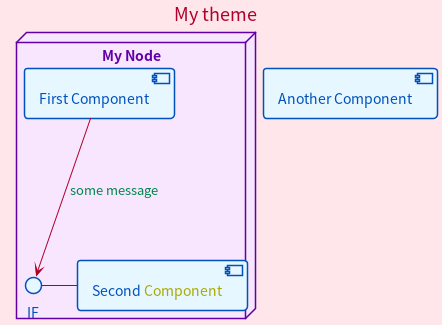
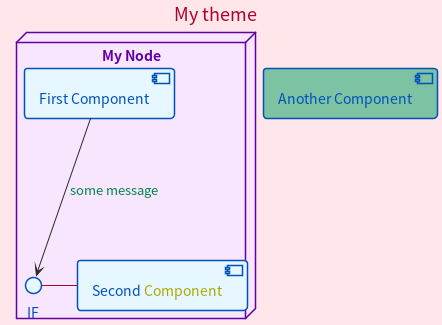
fix sample

diff --git a/README.md b/README.md
@@ -55,8 +55,8 @@ Except for `$color`, if arguments are omitted, the default values will be used.
 - `thickness`: thickness of line and arrows. It takes a real number.
 - `background2`: color for `LegendBackgroundColor` and `NoteBackgroundColor`
 - `fill`: color for `BarColor`, `EndColor`, and `StartColor`
-- `content`: text content.
-- `color`: color for a text content.
+- `content`: text content
+- `color`: color for a text content
 
 ### Preset Colors
 
@@ -85,7 +85,7 @@ The third color in each line is the middle density.
 $set_global_skin($RED, $RED2, $RED2)
 ' components are blue
 $set_skins($BLUE, $BLUE2, $BLUE2)
-' node is purple
+' nodes are purple
 skinparam node {
   $set_skin($PURPLE, $PURPLE2, $PURPLE2)
 }
@@ -93,13 +93,15 @@ skinparam node {
 title My theme
 
 node "My Node" {
+  ' "some message" is green, and the arrow is gray
+  [First Component] -[$GRAY2]-> IF : $color(some message, $GREEN2)
+
   ' text "Component" is yellow
   IF - [Second $color(Component, #aaaa00)]
-  ' "some message" is green
-  [First Component] --> IF : $color(some message, $GREEN2)
 }
 
-[Another Component]
+' this component is green
+[Another Component] $GREEN3
 
 @enduml
 ```
